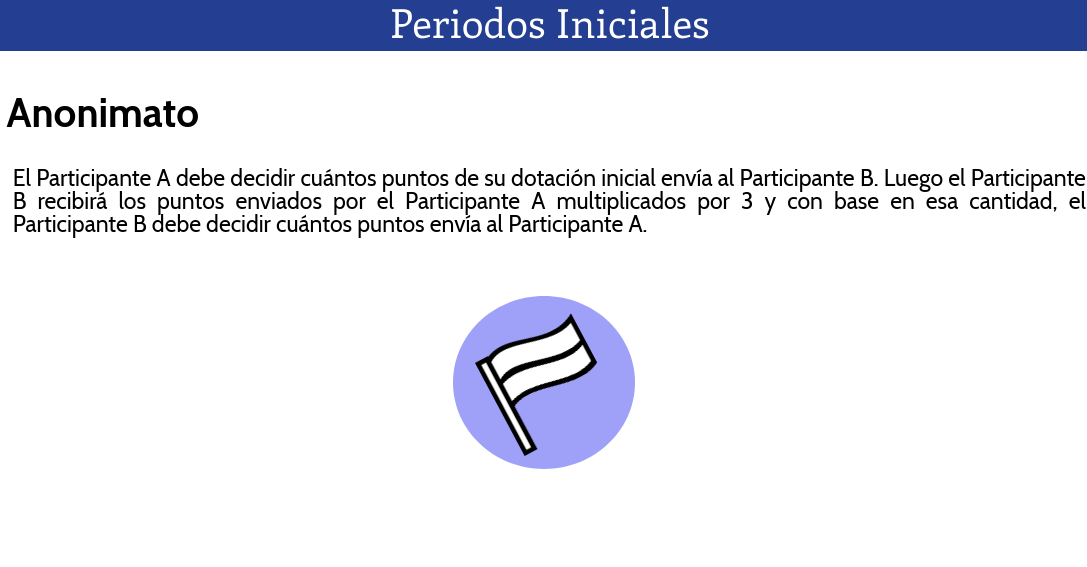
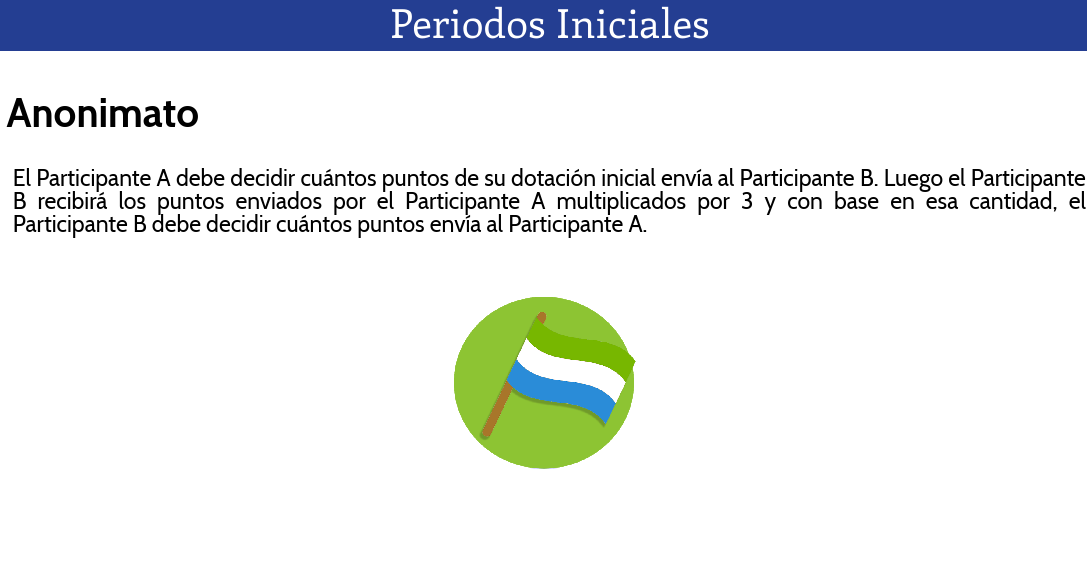
Confianza v3.2.3
Actualización de iconos

diff --git a/confianza/templates/confianza/DecisionA_SIN.html b/confianza/templates/confianza/DecisionA_SIN.html
@@ -71,17 +71,17 @@
 
     {% formfield player.Envia label="Debe decidir cuántos puntos enviar al Participante B:" %}
 
-        {% if tratamiento %}
+    {% if tratamiento %}
         {% if numeroronda >= rondastotales %}
-            <img  class="imagen" src = "{% static 'confianza/anonimato_fondo.PNG' %}"/>
+            <img  class="imagen" src = "{% static 'confianza/anonimato_azul.PNG' %}"/>
         {% else %}
-            <img  class="imagen" src = "{% static 'confianza/identidad_fondo.PNG' %}"/>
+            <img  class="imagen" src = "{% static 'confianza/identidad_verde.PNG' %}"/>
         {% endif %}
     {% else %}
         {% if numeroronda >= rondastotales %}
-           <img  class="imagen" src = "{% static 'confianza/identidad_fondo.PNG' %}"/>
+           <img  class="imagen" src = "{% static 'confianza/identidad_azul.PNG' %}"/>
         {% else %}
-            <img class="imagen" src = "{% static 'confianza/anonimato_fondo.PNG' %}"/>
+            <img class="imagen" src = "{% static 'confianza/anonimato_verde.PNG' %}"/>
         {% endif %}
     {% endif %}
 

diff --git a/confianza/templates/confianza/DecisionB_CON.html b/confianza/templates/confianza/DecisionB_CON.html
@@ -79,17 +79,17 @@
 
     {% formfield player.Envia label="Debe decidir cuántos puntos enviar al Participante A:" %}
 
-        {% if tratamiento %}
+    {% if tratamiento %}
         {% if numeroronda >= rondastotales %}
-            <img  class="imagen" src = "{% static 'confianza/anonimato_fondo.PNG' %}"/>
+            <img  class="imagen" src = "{% static 'confianza/anonimato_azul.PNG' %}"/>
         {% else %}
-            <img  class="imagen" src = "{% static 'confianza/identidad_fondo.PNG' %}"/>
+            <img  class="imagen" src = "{% static 'confianza/identidad_verde.PNG' %}"/>
         {% endif %}
     {% else %}
         {% if numeroronda >= rondastotales %}
-           <img  class="imagen" src = "{% static 'confianza/identidad_fondo.PNG' %}"/>
+           <img  class="imagen" src = "{% static 'confianza/identidad_azul.PNG' %}"/>
         {% else %}
-            <img class="imagen" src = "{% static 'confianza/anonimato_fondo.PNG' %}"/>
+            <img class="imagen" src = "{% static 'confianza/anonimato_verde.PNG' %}"/>
         {% endif %}
     {% endif %}
 

diff --git a/confianza/templates/confianza/DecisionA_CON.html b/confianza/templates/confianza/DecisionA_CON.html
@@ -82,15 +82,15 @@
 
     {% if tratamiento %}
         {% if numeroronda >= rondastotales %}
-            <img  class="imagen" src = "{% static 'confianza/anonimato_fondo.PNG' %}"/>
+            <img  class="imagen" src = "{% static 'confianza/anonimato_azul.PNG' %}"/>
         {% else %}
-            <img  class="imagen" src = "{% static 'confianza/identidad_fondo.PNG' %}"/>
+            <img  class="imagen" src = "{% static 'confianza/identidad_verde.PNG' %}"/>
         {% endif %}
     {% else %}
         {% if numeroronda >= rondastotales %}
-           <img  class="imagen" src = "{% static 'confianza/identidad_fondo.PNG' %}"/>
+           <img  class="imagen" src = "{% static 'confianza/identidad_azul.PNG' %}"/>
         {% else %}
-            <img class="imagen" src = "{% static 'confianza/anonimato_fondo.PNG' %}"/>
+            <img class="imagen" src = "{% static 'confianza/anonimato_verde.PNG' %}"/>
         {% endif %}
     {% endif %}
 

diff --git a/confianza/templates/confianza/DecisionB_SIN.html b/confianza/templates/confianza/DecisionB_SIN.html
@@ -73,15 +73,15 @@
 
     {% if tratamiento %}
         {% if numeroronda >= rondastotales %}
-            <img  class="imagen" src = "{% static 'confianza/anonimato_fondo.PNG' %}"/>
+            <img  class="imagen" src = "{% static 'confianza/anonimato_azul.PNG' %}"/>
         {% else %}
-            <img  class="imagen" src = "{% static 'confianza/identidad_fondo.PNG' %}"/>
+            <img  class="imagen" src = "{% static 'confianza/identidad_verde.PNG' %}"/>
         {% endif %}
     {% else %}
         {% if numeroronda >= rondastotales %}
-           <img  class="imagen" src = "{% static 'confianza/identidad_fondo.PNG' %}"/>
+           <img  class="imagen" src = "{% static 'confianza/identidad_azul.PNG' %}"/>
         {% else %}
-            <img class="imagen" src = "{% static 'confianza/anonimato_fondo.PNG' %}"/>
+            <img class="imagen" src = "{% static 'confianza/anonimato_verde.PNG' %}"/>
         {% endif %}
     {% endif %}
 

diff --git a/confianza/templates/confianza/Ganancias.html b/confianza/templates/confianza/Ganancias.html
@@ -79,15 +79,15 @@
 
     {% if tratamiento %}
         {% if numeroronda >= rondastotales %}
-            <img  class="imagen" src = "{% static 'confianza/anonimato_fondo.PNG' %}"/>
+            <img  class="imagen" src = "{% static 'confianza/anonimato_azul.PNG' %}"/>
         {% else %}
-            <img  class="imagen" src = "{% static 'confianza/identidad_fondo.PNG' %}"/>
+            <img  class="imagen" src = "{% static 'confianza/identidad_verde.PNG' %}"/>
         {% endif %}
     {% else %}
         {% if numeroronda >= rondastotales %}
-           <img  class="imagen" src = "{% static 'confianza/identidad_fondo.PNG' %}"/>
+           <img  class="imagen" src = "{% static 'confianza/identidad_azul.PNG' %}"/>
         {% else %}
-            <img class="imagen" src = "{% static 'confianza/anonimato_fondo.PNG' %}"/>
+            <img class="imagen" src = "{% static 'confianza/anonimato_verde.PNG' %}"/>
         {% endif %}
     {% endif %}
 
